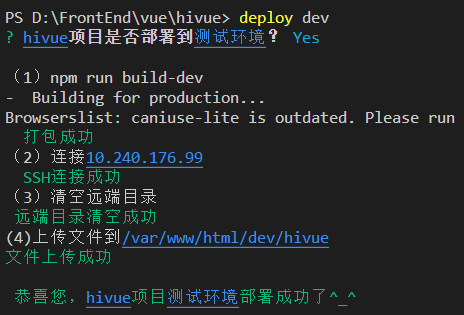
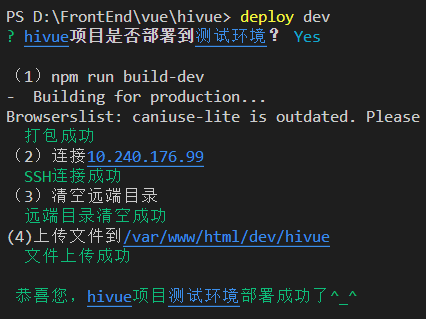
FEAT:优化deploy部署脚本

diff --git a/lib/deploy.js b/lib/deploy.js
@@ -43,9 +43,9 @@ async function connectSSH(config) {
   try {
     console.log(`（2）连接${underlineLog(host)}`);
     await ssh.connect(sshConfig);
-    successLog(`  SSH连接成功`);
+    successLog('  SSH连接成功');
   } catch (err) {
-    errorLog('  连接失败', err);
+    errorLog(`  连接失败 ${err}`);
     process.exit(1);
   }
 }
@@ -61,9 +61,9 @@ async function clearOldFile(webDir) {
     console.log('（3）清空远端目录');
     await runCommand(`cd ${webDir}`, webDir);
     await runCommand(`rm -rf *`, webDir);
-    successLog(` 远端目录清空成功 `);
+    successLog('  远端目录清空成功');
   } catch (err) {
-    errorLog('  远端目录清空失败', err);
+    errorLog(`  远端目录清空失败 ${err}`);
     process.exit(1);
   }
 }
@@ -76,9 +76,9 @@ async function uploadDirectory(distPath, webDir) {
       recursive: true,
       concurrency: 10,
     });
-    successLog('文件上传成功');
+    successLog('  文件上传成功');
   } catch (err) {
-    errorLog('  文件传输异常', err);
+    errorLog(`  文件传输异常 ${err}`);
     process.exit(1);
   }
 }
